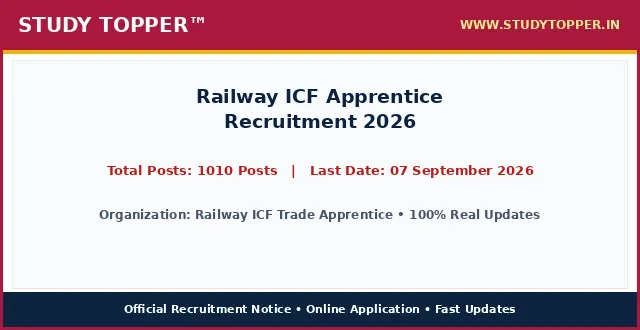
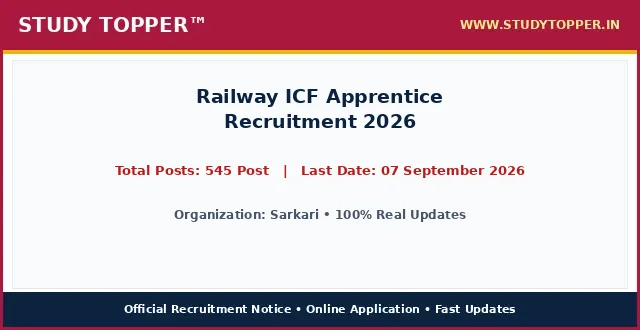
chore(lifecycle): daily auto-sort vacancies and update active dates

Changed region(s): [[0.1562, 0.4848, 0.8438, 0.5455], [0.1562, 0.6364, 0.8438, 0.6667]]

diff --git a/pages/railway-icf-apprentice-2026.html b/pages/railway-icf-apprentice-2026.html
@@ -987,12 +987,12 @@ ul.wp-block-latest-posts a:hover {
 <main class="site-main" id="main">
 <div class="gb-container gb-container-b39c368c">
 <h1 class="gb-headline gb-headline-e52a0102 gb-headline-text" style="font-size: 22px; font-weight: 700; color: #0000cd; text-align: left; margin: 8px 0 4px 0; line-height: 1.3; width: 100%; font-family: '-apple-system, BlinkMacSystemFont, 'Segoe UI', Roboto, 'Helvetica Neue', Arial, sans-serif', Times, serif, Hind, sans-serif;">Railway ICF Apprentice Recruitment 2026</h1>
-<div class="gb-container gb-container-659bd175"><p style="color: #cd0808; font-weight: 700; font-size: 15px; margin: 2px 0 7px 0; text-align: left; font-family: '-apple-system, BlinkMacSystemFont, 'Segoe UI', Roboto, 'Helvetica Neue', Arial, sans-serif', Times, serif, Hind, sans-serif;">Post Date: August 21, 2026 07:48 PM</p></div>
-<p class="gb-headline gb-headline-550ae316 short_Details gb-headline-text" style="width: 100%; max-width: 100%; font-size: 16.8px; line-height: 1.55; color: #000000; text-align: justify; text-justify: inter-word; margin: 8px 0 14px 0; display: block; font-family: '-apple-system, BlinkMacSystemFont, 'Segoe UI', Roboto, 'Helvetica Neue', Arial, sans-serif', Times, serif, Hind, sans-serif;"><strong style="color: #0000cd;">Railway ICF Trade Apprentice</strong> has officially published the recruitment notice <strong style="color: #cd0808;">Railway ICF Apprentice Recruitment 2026</strong> under notification number Official Advt 2026. Online applications are invited for 1010 Posts across multiple departments and cadre positions. Interested candidates possessing the requisite educational qualifications and falling between 18 Years to 40 Years can complete their online registration before the application deadline of 07 September 2026. Applicants should read the eligibility criteria, category reservation rules, and exam scheme thoroughly before submitting applications.</p>
+<div class="gb-container gb-container-659bd175"><p style="color: #cd0808; font-weight: 700; font-size: 15px; margin: 2px 0 7px 0; text-align: left; font-family: '-apple-system, BlinkMacSystemFont, 'Segoe UI', Roboto, 'Helvetica Neue', Arial, sans-serif', Times, serif, Hind, sans-serif;">Post Date: August 22, 2026 11:30 AM</p></div>
+<p class="gb-headline gb-headline-550ae316 short_Details gb-headline-text" style="width: 100%; max-width: 100%; font-size: 16.8px; line-height: 1.55; color: #000000; text-align: justify; text-justify: inter-word; margin: 8px 0 14px 0; display: block; font-family: '-apple-system, BlinkMacSystemFont, 'Segoe UI', Roboto, 'Helvetica Neue', Arial, sans-serif', Times, serif, Hind, sans-serif;"><strong style="color: #0000cd;">Sarkari</strong> has officially published the recruitment notice <strong style="color: #cd0808;">Railway ICF Apprentice Recruitment 2026</strong> under notification number Official Advt 2026. Online applications are invited for 545 Post across multiple departments and cadre positions. Interested candidates possessing the requisite educational qualifications and falling between 18 Years to 40 Years can complete their online registration before the application deadline of 07 September 2026. Applicants should read the eligibility criteria, category reservation rules, and exam scheme thoroughly before submitting applications.</p>
 <div class="gb-container gb-container-9849916c"><div class="social-buttons-compact" style="display: flex; justify-content: flex-start; align-items: center; gap: 10px; margin: 10px 0 16px 0; width: 100%;"><a class="social-btn-compact wa" href="https://whatsapp.com/channel/0029Va9xyz" rel="noopener" style="background-color: #00d084; color: #ffffff; padding: 10px 18px; border-radius: 4px; text-decoration: none; font-weight: bold; font-size: 15.5px; display: inline-flex; align-items: center; justify-content: center; height: auto;" target="_blank">WhatsApp</a><a class="social-btn-compact tg" href="https://t.me/studytopperofficial" rel="noopener" style="background-color: #0088cc; color: #ffffff; padding: 10px 18px; border-radius: 4px; text-decoration: none; font-weight: bold; font-size: 15.5px; display: inline-flex; align-items: center; justify-content: center; height: auto;" target="_blank">Telegram</a></div></div>
 <div class="gb-container gb-container-f58e6ca1" style="border: 2px solid #5b032f; border-radius: 4px; overflow: hidden; margin: 15px 0 20px 0; background-color: #ffffff; width: 100%; box-sizing: border-box;">
 <h2 class="gb-headline gb-headline-2ca5a791 gb-headline-text" style="font-size: 16px; font-weight: 700; text-align: center; color: #ef0303; line-height: 1.3; padding: 6px 4px; margin: 0; background: #ffffff; font-family: '-apple-system, BlinkMacSystemFont, 'Segoe UI', Roboto, 'Helvetica Neue', Arial, sans-serif', Times, serif, Hind, sans-serif;">Railway ICF Apprentice Recruitment 2026 &ndash; Latest Details &amp; Updates</h2>
-<h3 class="gb-headline gb-headline-7d5f86e8 gb-headline-text" style="font-size: 16px; font-weight: 600; text-align: center; color: #009703; line-height: 1.25; margin: 0; padding: 2px 4px 6px 4px; background: #ffffff; font-family: '-apple-system, BlinkMacSystemFont, 'Segoe UI', Roboto, 'Helvetica Neue', Arial, sans-serif', Times, serif, Hind, sans-serif;">Railway ICF Trade Apprentice : Details &amp; Summary</h3>
+<h3 class="gb-headline gb-headline-7d5f86e8 gb-headline-text" style="font-size: 16px; font-weight: 600; text-align: center; color: #009703; line-height: 1.25; margin: 0; padding: 2px 4px 6px 4px; background: #ffffff; font-family: '-apple-system, BlinkMacSystemFont, 'Segoe UI', Roboto, 'Helvetica Neue', Arial, sans-serif', Times, serif, Hind, sans-serif;">Sarkari : Details &amp; Summary</h3>
 <p class="gb-headline gb-headline-79adf169 gb-headline-text" style="margin: 0 0 6px 0; font-family: '-apple-system, BlinkMacSystemFont, 'Segoe UI', Roboto, 'Helvetica Neue', Arial, sans-serif', Times, serif, Hind, sans-serif; text-align: center; font-size: 18px; font-weight: 700;"><a href="/" style="color: #0000ff; text-decoration: underline;">StudyTopper.in</a></p>
 
 <style id="st-post-boxes-responsive-css">
@@ -1025,7 +1025,7 @@ ul.wp-block-latest-posts a:hover {
     <div style="background-color: #5b032f; color: #ffffff; padding: 8px 10px; font-size: 20px; font-weight: 700; text-align: center; font-family: '-apple-system, BlinkMacSystemFont, 'Segoe UI', Roboto, 'Helvetica Neue', Arial, sans-serif', Times, serif, Hind, sans-serif;">Important Dates</div>
     <div style="padding: 12px 14px; background-color: #ffffff;">
       <ul style="padding-left: 20px; margin: 0; list-style-type: disc; text-align: left; font-size: 14pt; line-height: 1.6; font-family: '-apple-system, BlinkMacSystemFont, 'Segoe UI', Roboto, 'Helvetica Neue', Arial, sans-serif', Times, serif, Hind, sans-serif;">
-        <li><span style="font-size: 14pt;">Online Apply Start Date : <strong>08 August 2026</strong></span></li><li><span style="font-size: 14pt;">Online Apply Last Date : <span style="color: #ff0000;"><strong>07 September 2026</strong></span></span></li><li><span style="font-size: 14pt;">Last Date For Fee Payment : <span style="color: #ff0000;"><strong>07 September 2026</strong></span></span></li><li><span style="font-size: 14pt;">Exam Date : <strong>Notify Soon</strong></span></li><li><span style="font-size: 14pt;">Admit Card : <strong>Before Exam</strong></span></li><li><span style="font-size: 14pt;">Result Date : <strong>Will Be Updated Here Soon</strong></span></li>
+        
       </ul>
     </div>
   </div>
@@ -1034,7 +1034,7 @@ ul.wp-block-latest-posts a:hover {
     <div style="background-color: #5b032f; color: #ffffff; padding: 8px 10px; font-size: 20px; font-weight: 700; text-align: center; font-family: '-apple-system, BlinkMacSystemFont, 'Segoe UI', Roboto, 'Helvetica Neue', Arial, sans-serif', Times, serif, Hind, sans-serif;">Application Fee</div>
     <div style="padding: 12px 14px; background-color: #ffffff;">
       <ul style="padding-left: 20px; margin: 0; list-style-type: disc; text-align: left; font-size: 14pt; line-height: 1.6; font-family: '-apple-system, BlinkMacSystemFont, 'Segoe UI', Roboto, 'Helvetica Neue', Arial, sans-serif', Times, serif, Hind, sans-serif;">
-        <li><span style="font-size: 14pt;">For General/ OBC/ EWS Candidates : <strong>₹ 100/-</strong></span></li><li><span style="font-size: 14pt;">For SC/ ST/PH Candidates : <strong>₹ 00/-</strong></span></li><li><span style="font-size: 14pt;">For All Female Category Candidates : <strong>₹ 00/-</strong></span></li><li><span style="font-size: 14pt;">Payment Mode (Online) : <strong>You can make the payment using the following methods: Debit Card Credit Card Internet Banking IMPS Cash Card / Mobile Wallet</strong></span></li><li><span style="font-size: 14pt;">Candidates must have Passed Class 10th with at least 50% marks and completed a 2 : <strong>year ITI certificate in the relevant trade for the post.</strong></span></li>
+        <li><span style="font-size: 14pt;">Bihar Police BPSSC Sub Inspector SI Prohibition Result 2026 Advt. No. : <strong>03/2026</strong></span></li><li><span style="font-size: 14pt;">UP Scholarship Online Form 2026 : <strong>2027</strong></span></li>
       </ul>
       <div style="margin-top: 10px; font-size: 14pt; line-height: 1.5; color: #000000; border-top: 1px dashed #ccc; padding-top: 8px; font-family: '-apple-system, BlinkMacSystemFont, 'Segoe UI', Roboto, 'Helvetica Neue', Arial, sans-serif', Times, serif, Hind, sans-serif;">
         <strong>Mode of Payment / Access:</strong> Online via Net Banking, Debit Card, Credit Card, UPI or Free Candidate Portal.
@@ -1047,10 +1047,10 @@ ul.wp-block-latest-posts a:hover {
 <div class="st-grid-row" style="display: flex; flex-wrap: wrap; width: 100%; border-top: 2px solid #5b032f; margin: 0; padding: 0; box-sizing: border-box;">
   <!-- Left Col: Age Limits -->
   <div class="st-col-half st-col-border-right" style="box-sizing: border-box; vertical-align: top;">
-    <div style="background-color: #046132; color: #ffffff; padding: 8px 10px; font-size: 17px; font-weight: 700; text-align: center; font-family: '-apple-system, BlinkMacSystemFont, 'Segoe UI', Roboto, 'Helvetica Neue', Arial, sans-serif', Times, serif, Hind, sans-serif;">Railway ICF Trade Apprentice : Age Limits As On 01 August 2026</div>
+    <div style="background-color: #046132; color: #ffffff; padding: 8px 10px; font-size: 17px; font-weight: 700; text-align: center; font-family: '-apple-system, BlinkMacSystemFont, 'Segoe UI', Roboto, 'Helvetica Neue', Arial, sans-serif', Times, serif, Hind, sans-serif;">Sarkari : Age Limits As On 01 August 2026</div>
     <div style="padding: 12px 14px; background-color: #ffffff;">
       <ul style="padding-left: 20px; margin: 0; list-style-type: disc; text-align: left; font-size: 14pt; line-height: 1.6; font-family: '-apple-system, BlinkMacSystemFont, 'Segoe UI', Roboto, 'Helvetica Neue', Arial, sans-serif', Times, serif, Hind, sans-serif;">
-        <li><span style="font-size: 14pt;">Age Limit : <strong>15-22 Years (Non-ITI Candidate)</strong></span></li>
+        
       </ul>
     </div>
   </div>
@@ -1058,7 +1058,7 @@ ul.wp-block-latest-posts a:hover {
   <div class="st-col-half" style="box-sizing: border-box; vertical-align: top;">
     <div style="background-color: #f53c00; color: #ffffff; padding: 8px 10px; font-size: 20px; font-weight: 700; text-align: center; font-family: '-apple-system, BlinkMacSystemFont, 'Segoe UI', Roboto, 'Helvetica Neue', Arial, sans-serif', Times, serif, Hind, sans-serif;">Total Post</div>
     <div style="padding: 24px 10px; background-color: #ffffff; text-align: center;">
-      <span style="font-size: 28px; font-weight: 800; color: #000000; font-family: '-apple-system, BlinkMacSystemFont, 'Segoe UI', Roboto, 'Helvetica Neue', Arial, sans-serif', Times, serif, Hind, sans-serif;">1010 Posts</span>
+      <span style="font-size: 28px; font-weight: 800; color: #000000; font-family: '-apple-system, BlinkMacSystemFont, 'Segoe UI', Roboto, 'Helvetica Neue', Arial, sans-serif', Times, serif, Hind, sans-serif;">545 Post</span>
     </div>
   </div>
 </div>
@@ -1073,13 +1073,13 @@ ul.wp-block-latest-posts a:hover {
 <table style="border-collapse: collapse; width: 100%; height: 150px;">
 <tbody>
 <tr style="height: 25px;">
-<td colspan="2" style="width: 50%; text-align: center; height: 25px;"><span style="background-color: #000080; color: #ffffff; font-size: 14pt;"><strong> Railway ICF Trade Apprentice : Category Wise Vacancy Details </strong></span></td>
+<td colspan="2" style="width: 50%; text-align: center; height: 25px;"><span style="background-color: #000080; color: #ffffff; font-size: 14pt;"><strong> Sarkari : Category Wise Vacancy Details </strong></span></td>
 </tr>
 <tr style="height: 25px;">
 <td style="width: 50%; height: 25px; text-align: center;"><span style="font-size: 14pt;"><strong>Category / Particulars</strong></span></td>
 <td style="width: 50%; height: 25px; text-align: center;"><span style="font-size: 14pt;"><strong>Count / Status</strong></span></td>
 </tr>
-<tr><td style="text-align: center;">General (UR)</td><td style="text-align: center; font-weight: normal; color: inherit;">As per Rules</td></tr><tr><td style="text-align: center;">OBC / EWS</td><td style="text-align: center; font-weight: normal; color: inherit;">As per Rules</td></tr><tr><td style="text-align: center;">SC / ST</td><td style="text-align: center; font-weight: normal; color: inherit;">As per Rules</td></tr><tr><td style="text-align: center;">Total Vacancies</td><td style="text-align: center; font-weight: bold; color: #ff0000;">1010 Posts</td></tr>
+
 </tbody>
 </table>
 <p>&nbsp;</p>
@@ -1090,15 +1090,7 @@ ul.wp-block-latest-posts a:hover {
 <th style="background-color: #f53c00; color: #ffffff; padding: 6px 10px; text-align: center; border: 1px solid #d35400; font-size: 15px; font-weight: 700; font-family: '-apple-system, BlinkMacSystemFont, 'Segoe UI', Roboto, 'Helvetica Neue', Arial, sans-serif', Times, serif, Hind, sans-serif;">Total Posts</th>
 <th style="background-color: #f53c00; color: #ffffff; padding: 6px 10px; text-align: center; border: 1px solid #d35400; font-size: 15px; font-weight: 700; font-family: '-apple-system, BlinkMacSystemFont, 'Segoe UI', Roboto, 'Helvetica Neue', Arial, sans-serif', Times, serif, Hind, sans-serif;">Eligibility Criteria</th>
 </tr>
-<tr>
-<td style="padding: 8px; border: 1px solid #ddd; font-weight: bold;">Apprentice (Fresher)</td>
-<td style="padding: 8px; border: 1px solid #ddd; text-align: center; font-weight: bold;">1010 Posts</td>
-<td style="padding: 8px; border: 1px solid #ddd;">Candidates must have Passed Class 10th with at least 50% marks and studied Science or Math in Class 12th.</td>
-</tr><tr>
-<td style="padding: 8px; border: 1px solid #ddd; font-weight: bold;">Ex ITI</td>
-<td style="padding: 8px; border: 1px solid #ddd; text-align: center; font-weight: bold;">1010 Posts</td>
-<td style="padding: 8px; border: 1px solid #ddd;">Candidates must have Passed Class 10th with at least 50% marks and completed a 2-year ITI certificate in the relevant trade for the post.</td>
-</tr>
+
 </tbody>
 </table>
 <p>&nbsp;</p>
@@ -1108,10 +1100,10 @@ ul.wp-block-latest-posts a:hover {
 <table style="border-collapse: collapse; width: 100%;">
 <tbody>
 <tr>
-<td style="width: 100%; text-align: center;"><span style="background-color: #000080; color: #ffffff; font-size: 14pt; font-weight: bold; display: block; padding: 6px;"> How to Fill Railway ICF Trade Apprentice Online Application Form </span></td>
+<td style="width: 100%; text-align: center;"><span style="background-color: #000080; color: #ffffff; font-size: 14pt; font-weight: bold; display: block; padding: 6px;"> How to Fill Sarkari Online Application Form </span></td>
 </tr>
 <tr>
-<td style="width: 100%;"><ol style="margin:0; padding-left:18px; text-align: left !important; list-style-position: outside !important"><li style="margin-bottom:6px; text-align: left !important;">Visit official portal for Railway ICF Apprentice Recruitment 2026 via direct application link in important links section below.</li><li style="margin-bottom:6px; text-align: left !important;">Read official recruitment notification carefully to verify category eligibility criteria and age limits.</li><li style="margin-bottom:6px; text-align: left !important;">Complete online candidate registration with valid mobile number and email ID.</li><li style="margin-bottom:6px; text-align: left !important;">Fill educational qualifications, identity details, and permanent address accurately.</li><li style="margin-bottom:6px; text-align: left !important;">Upload scanned photograph and signature in required dimensions.</li><li style="margin-bottom:6px; text-align: left !important;">Resize candidate photograph and signature accurately using StudyTopper Tools resizer at indtool.in.</li><li style="margin-bottom:6px; text-align: left !important;">Pay applicable category application fee online using Debit Card, Credit Card, Net Banking, or UPI.</li><li style="margin-bottom:6px; text-align: left !important;">Review full application form preview thoroughly and submit before 07 September 2026.</li><li style="margin-bottom:6px; text-align: left !important;">Download and print submitted application confirmation page for future reference.</li></ol></td>
+<td style="width: 100%;"><ol style="margin:0; padding-left:18px; text-align: left !important; list-style-position: outside !important"><li style="margin-bottom:6px; text-align: left !important;">Resize candidate photograph and signature accurately using the <a href="https://indtool.in" rel="noopener" target="_blank"><strong>StudyTopper Tools</strong></a> image resizer at indtool.in.</li></ol></td>
 </tr>
 </tbody>
 </table>
@@ -1119,12 +1111,12 @@ ul.wp-block-latest-posts a:hover {
 <table style="border-collapse: collapse; width: 100%;">
 <tbody>
 <tr>
-<td style="width: 100%; text-align: center;"><span style="background-color: #000080; color: #ffffff; font-size: 14pt;"><strong><span style="color: #ffffff;"> Railway ICF Trade Apprentice Recruitment 2026 : Mode Of Selection </span></strong></span></td>
+<td style="width: 100%; text-align: center;"><span style="background-color: #000080; color: #ffffff; font-size: 14pt;"><strong><span style="color: #ffffff;"> Sarkari Recruitment 2026 : Mode Of Selection </span></strong></span></td>
 </tr>
 <tr>
 <td style="width: 100%;">
 <ul class="wp-block-list" style="text-align: left !important; list-style-position: outside !important">
-<li style="text-align: left !important;"><span style="font-size: 14pt;"><strong>Computer Based Examination (CBE) / Evaluation</strong></span></li><li style="text-align: left !important;"><span style="font-size: 14pt;"><strong>Document Verification</strong></span></li><li style="text-align: left !important;"><span style="font-size: 14pt;"><strong>Final Merit Allotment</strong></span></li>
+<li style="text-align: left !important;"><span style="font-size: 14pt;"><strong>Computer Based Examination (CBE) / Written Exam</strong></span></li><li style="text-align: left !important;"><span style="font-size: 14pt;"><strong>Document Verification</strong></span></li><li style="text-align: left !important;"><span style="font-size: 14pt;"><strong>Medical Examination</strong></span></li>
 </ul>
 </td>
 </tr>
@@ -1162,15 +1154,7 @@ ul.wp-block-latest-posts a:hover {
 <span style="font-size: 19px; font-weight: 800; color: #000000; font-family: '-apple-system, BlinkMacSystemFont, 'Segoe UI', Roboto, 'Helvetica Neue', Arial, sans-serif', Times, serif, Hind, sans-serif;">Apply Online Link</span>
 </td>
 <td style="width: 50%; padding: 14px 16px; text-align: center;">
-<span style="font-size: 20px; font-weight: 800; font-family: '-apple-system, BlinkMacSystemFont, 'Segoe UI', Roboto, 'Helvetica Neue', Arial, sans-serif', Times, serif, Hind, sans-serif;"><a href="https://pb.icf.gov.in/act2026/apply.php" aria-label="Click Here for Apply Online Link - Railway ICF Apprentice Recruitment 2026" rel="noopener noreferrer" style="color: #0000ef; font-weight: 800; text-decoration: none;" target="_blank">Click Here</a></span>
-</td>
-</tr>
-<tr style="border-bottom: 1px solid #000000; background-color: #fff37a;">
-<td style="width: 50%; padding: 14px 16px; border-right: 1px solid #000000; text-align: center;">
-<span style="font-size: 19px; font-weight: 800; color: #000000; font-family: '-apple-system, BlinkMacSystemFont, 'Segoe UI', Roboto, 'Helvetica Neue', Arial, sans-serif', Times, serif, Hind, sans-serif;">Fee Payment (UR, OBC / Male)</span>
-</td>
-<td style="width: 50%; padding: 14px 16px; text-align: center;">
-<span style="font-size: 20px; font-weight: 800; font-family: '-apple-system, BlinkMacSystemFont, 'Segoe UI', Roboto, 'Helvetica Neue', Arial, sans-serif', Times, serif, Hind, sans-serif;"><a href="https://pb.icf.gov.in/act2026/update.php" aria-label="Click Here for Fee Payment (UR, OBC / Male) - Railway ICF Apprentice Recruitment 2026" rel="noopener noreferrer" style="color: #0000ef; font-weight: 800; text-decoration: none;" target="_blank">Click Here</a></span>
+<span style="font-size: 20px; font-weight: 800; font-family: '-apple-system, BlinkMacSystemFont, 'Segoe UI', Roboto, 'Helvetica Neue', Arial, sans-serif', Times, serif, Hind, sans-serif;"><a href="https://www.sarkariresult.com/2026/mpesb-group2-subgroup-4-aug26/" aria-label="Click Here for Apply Online Link - Railway ICF Apprentice Recruitment 2026" rel="noopener noreferrer" style="color: #0000ef; font-weight: 800; text-decoration: none;" target="_blank">Click Here</a></span>
 </td>
 </tr>
 <tr style="border-bottom: 1px solid #000000; background-color: #fff37a;">
@@ -1178,23 +1162,31 @@ ul.wp-block-latest-posts a:hover {
 <span style="font-size: 19px; font-weight: 800; color: #000000; font-family: '-apple-system, BlinkMacSystemFont, 'Segoe UI', Roboto, 'Helvetica Neue', Arial, sans-serif', Times, serif, Hind, sans-serif;">Check Official Notification</span>
 </td>
 <td style="width: 50%; padding: 14px 16px; text-align: center;">
-<span style="font-size: 20px; font-weight: 800; font-family: '-apple-system, BlinkMacSystemFont, 'Segoe UI', Roboto, 'Helvetica Neue', Arial, sans-serif', Times, serif, Hind, sans-serif;"><a href="https://pb.icf.gov.in/act2026/Act_Apprentice_2026_27.pdf" aria-label="Click Here for Check Official Notification - Railway ICF Apprentice Recruitment 2026" rel="noopener noreferrer" style="color: #0000ef; font-weight: 800; text-decoration: none;" target="_blank">Click Here</a></span>
+<span style="font-size: 20px; font-weight: 800; font-family: '-apple-system, BlinkMacSystemFont, 'Segoe UI', Roboto, 'Helvetica Neue', Arial, sans-serif', Times, serif, Hind, sans-serif;"><a href="" aria-label="Click Here for Check Official Notification - Railway ICF Apprentice Recruitment 2026" rel="noopener noreferrer" style="color: #0000ef; font-weight: 800; text-decoration: none;" target="_blank">Click Here</a></span>
 </td>
 </tr>
 <tr style="border-bottom: 1px solid #000000; background-color: #fff37a;">
 <td style="width: 50%; padding: 14px 16px; border-right: 1px solid #000000; text-align: center;">
-<span style="font-size: 19px; font-weight: 800; color: #000000; font-family: '-apple-system, BlinkMacSystemFont, 'Segoe UI', Roboto, 'Helvetica Neue', Arial, sans-serif', Times, serif, Hind, sans-serif;">Railway ICF Official Website</span>
+<span style="font-size: 19px; font-weight: 800; color: #000000; font-family: '-apple-system, BlinkMacSystemFont, 'Segoe UI', Roboto, 'Helvetica Neue', Arial, sans-serif', Times, serif, Hind, sans-serif;">Photo / Sign Resizer Tool</span>
 </td>
 <td style="width: 50%; padding: 14px 16px; text-align: center;">
-<span style="font-size: 20px; font-weight: 800; font-family: '-apple-system, BlinkMacSystemFont, 'Segoe UI', Roboto, 'Helvetica Neue', Arial, sans-serif', Times, serif, Hind, sans-serif;"><a href="http://www.icf.indianrailways.gov.in/" aria-label="Click Here for Railway ICF Official Website - Railway ICF Apprentice Recruitment 2026" rel="noopener noreferrer" style="color: #0000ef; font-weight: 800; text-decoration: none;" target="_blank">Click Here</a></span>
+<span style="font-size: 20px; font-weight: 800; font-family: '-apple-system, BlinkMacSystemFont, 'Segoe UI', Roboto, 'Helvetica Neue', Arial, sans-serif', Times, serif, Hind, sans-serif;"><a href="https://indtool.in" aria-label="Click Here for Photo / Sign Resizer Tool - Railway ICF Apprentice Recruitment 2026" rel="noopener noreferrer" style="color: #0000ef; font-weight: 800; text-decoration: none;" target="_blank">Click Here</a></span>
 </td>
 </tr>
-<tr style=" background-color: #fff37a;">
+<tr style="border-bottom: 1px solid #000000; background-color: #fff37a;">
 <td style="width: 50%; padding: 14px 16px; border-right: 1px solid #000000; text-align: center;">
 <span style="font-size: 19px; font-weight: 800; color: #000000; font-family: '-apple-system, BlinkMacSystemFont, 'Segoe UI', Roboto, 'Helvetica Neue', Arial, sans-serif', Times, serif, Hind, sans-serif;">Check Sarkari Result</span>
 </td>
 <td style="width: 50%; padding: 14px 16px; text-align: center;">
 <span style="font-size: 20px; font-weight: 800; font-family: '-apple-system, BlinkMacSystemFont, 'Segoe UI', Roboto, 'Helvetica Neue', Arial, sans-serif', Times, serif, Hind, sans-serif;"><a href="/" aria-label="Click Here for Check Sarkari Result - Railway ICF Apprentice Recruitment 2026" rel="noopener noreferrer" style="color: #0000ef; font-weight: 800; text-decoration: none;" >Click Here</a></span>
+</td>
+</tr>
+<tr style=" background-color: #fff37a;">
+<td style="width: 50%; padding: 14px 16px; border-right: 1px solid #000000; text-align: center;">
+<span style="font-size: 19px; font-weight: 800; color: #000000; font-family: '-apple-system, BlinkMacSystemFont, 'Segoe UI', Roboto, 'Helvetica Neue', Arial, sans-serif', Times, serif, Hind, sans-serif;">Sarkari Website</span>
+</td>
+<td style="width: 50%; padding: 14px 16px; text-align: center;">
+<span style="font-size: 20px; font-weight: 800; font-family: '-apple-system, BlinkMacSystemFont, 'Segoe UI', Roboto, 'Helvetica Neue', Arial, sans-serif', Times, serif, Hind, sans-serif;"><a href="" aria-label="Click Here for Sarkari Website - Railway ICF Apprentice Recruitment 2026" rel="noopener noreferrer" style="color: #0000ef; font-weight: 800; text-decoration: none;" target="_blank">Click Here</a></span>
 </td>
 </tr>
 </tbody>
@@ -1210,7 +1202,7 @@ ul.wp-block-latest-posts a:hover {
 <p style="margin: 0 0 16px 0; color: #333333; line-height: 1.6;">Ans. The last date for online submission of application is 07 September 2026.</p><p style="margin: 0 0 4px 0;"><strong style="color: #000080;">Q2. What is the age limit for Railway ICF Apprentice Recruitment 2026?</strong></p>
 <p style="margin: 0 0 16px 0; color: #333333; line-height: 1.6;">Ans. Candidate age should generally be between 18 Years and 40 Years as on 01 August 2026. Age relaxation is applicable per rules.</p><p style="margin: 0 0 4px 0;"><strong style="color: #000080;">Q3. What is the application fee for Railway ICF Apprentice Recruitment 2026?</strong></p>
 <p style="margin: 0 0 16px 0; color: #333333; line-height: 1.6;">Ans. Application fee varies by category (e.g., General/OBC: Rs. 100/-, SC/ST/PwD: Exempted).</p><p style="margin: 0 0 4px 0;"><strong style="color: #000080;">Q4. How many total posts are available in Railway ICF Apprentice Recruitment 2026?</strong></p>
-<p style="margin: 0 0 16px 0; color: #333333; line-height: 1.6;">Ans. A total of 1010 Posts have been officially announced for this recruitment drive.</p><p style="margin: 0 0 4px 0;"><strong style="color: #000080;">Q5. How can I apply online for Railway ICF Apprentice Recruitment 2026?</strong></p>
+<p style="margin: 0 0 16px 0; color: #333333; line-height: 1.6;">Ans. A total of 545 Post have been officially announced for this recruitment drive.</p><p style="margin: 0 0 4px 0;"><strong style="color: #000080;">Q5. How can I apply online for Railway ICF Apprentice Recruitment 2026?</strong></p>
 <p style="margin: 0 0 0 0; color: #333333; line-height: 1.6;">Ans. Eligible candidates can click the 'Apply Online' link in the Important Links table, register, fill details, resize photo/signature via indtool.in, and submit before 07 September 2026.</p>
   </div>
 </div>
